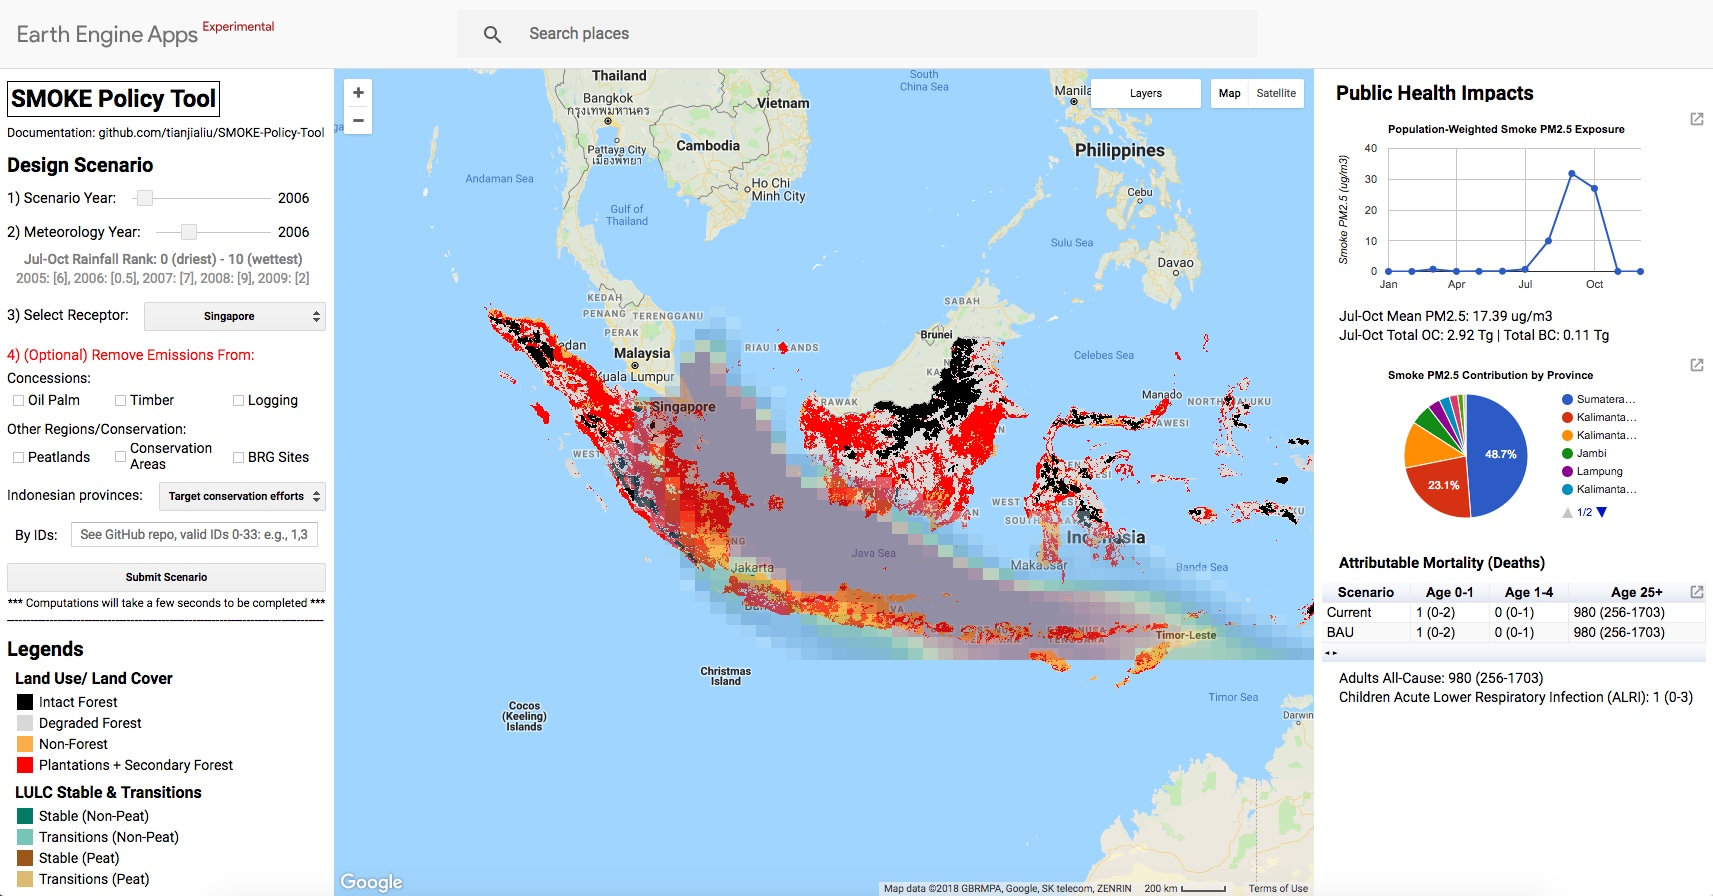
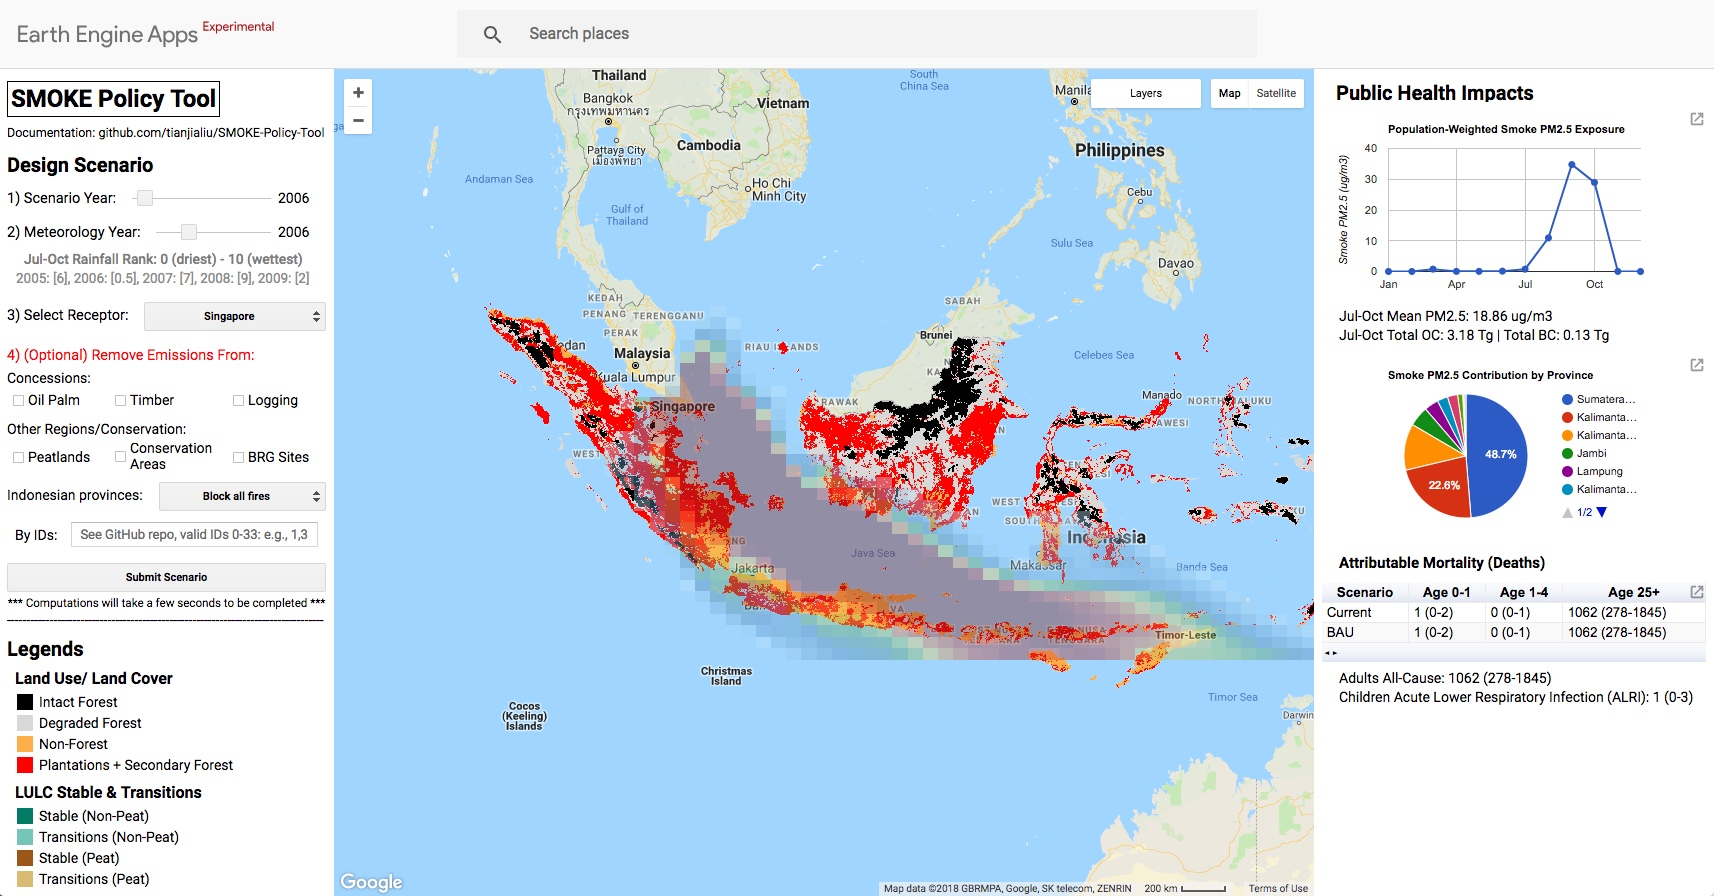
change PL2PL EF to DEFO-SAVA weighted avg.

diff --git a/apps/SMOKEPolicyTool.js b/apps/SMOKEPolicyTool.js
@@ -208,12 +208,13 @@ var LULCtr = ['IN2IN_NP', 'IN2DG_NP', 'IN2NF_NP', 'IN2PL_NP',
 
 // OC and BC emissions factors from GFEDv4s (g OC, BC/ kg DM)
 // 1. SAVA, 2. BORF, 3. TEMF 4. DEFO, 5. Peat, 6. AGRI
-var oc_ef = [2.62, 9.6, 9.6, 4.71, 6.02, 2.3]; // g OC per kg DM
-var bc_ef = [0.37, 0.5, 0.5, 0.52, 0.04, 0.75]; // g BC per kg DM
+// 7. SAVA-DEFO weighted avg.
+var oc_ef = [2.62, 9.6, 9.6, 4.71, 6.02, 2.3, 4.07]; // g OC per kg DM
+var bc_ef = [0.37, 0.5, 0.5, 0.52, 0.04, 0.75, 0.47]; // g BC per kg DM
 
 // Match Margono + Hansen LULC transitions to GFEDv4s LULC
 // to apply emissions factors on DM emissions
-var gfed_index = [3, 3, 3, 3, 3, 3, 3, 0, 0, 4, 4, 4, 4, 4, 4, 4, 4, 4];
+var gfed_index = [3, 3, 3, 3, 3, 3, 3, 0, 6, 4, 4, 4, 4, 4, 4, 4, 4, 4];
 
 // Format OC and BC emissions factors to the emissions rates layers
 var oc_ef_LULCtr = ee.Image([]); var bc_ef_LULCtr = ee.Image([]);

diff --git a/gee_public/Modules/smokePM.js b/gee_public/Modules/smokePM.js
@@ -29,12 +29,13 @@ var LULCtr = ['IN2IN_NP', 'IN2DG_NP', 'IN2NF_NP', 'IN2PL_NP',
 
 // OC and BC emissions factors from GFEDv4s (g OC, BC/ kg DM)
 // 1. SAVA, 2. BORF, 3. TEMF 4. DEFO, 5. Peat, 6. AGRI
-var oc_ef = [2.62, 9.6, 9.6, 4.71, 6.02, 2.3]; // g OC per kg DM
-var bc_ef = [0.37, 0.5, 0.5, 0.52, 0.04, 0.75]; // g BC per kg DM
+// 7. SAVA-DEFO weighted avg.
+var oc_ef = [2.62, 9.6, 9.6, 4.71, 6.02, 2.3, 4.07]; // g OC per kg DM
+var bc_ef = [0.37, 0.5, 0.5, 0.52, 0.04, 0.75, 0.47]; // g BC per kg DM
 
 // Match Margono + Hansen LULC transitions to GFEDv4s LULC
 // to apply emissions factors on DM emissions
-var gfed_index = [3, 3, 3, 3, 3, 3, 3, 0, 0, 4, 4, 4, 4, 4, 4, 4, 4, 4];
+var gfed_index = [3, 3, 3, 3, 3, 3, 3, 0, 6, 4, 4, 4, 4, 4, 4, 4, 4, 4];
 
 // Format OC and BC emissions factors to the emissions rates layers
 var oc_ef_LULCtr = ee.Image([]); var bc_ef_LULCtr = ee.Image([]);

diff --git a/README.md b/README.md
@@ -1,5 +1,5 @@
 # SMOKE-Policy-Tool
-SMOKE Policy Tool in Google Earth Engine (Last updated: August 16, 2018).
+SMOKE Policy Tool in Google Earth Engine
 
 - *Note*: The SMOKE Policy Tool can be accessed from 1) Earth Engine Apps and 2) a read-only public repository in the Google Earth Engine (GEE) code editor. Earth Engine Apps is currently an experimental product and does not support special characters and EE 'require' functions. Accessing the UI from the 'users/smokepolicytool/public' repository in the GEE code editor is more stable and interactive but requires a (free) GEE account.
 
